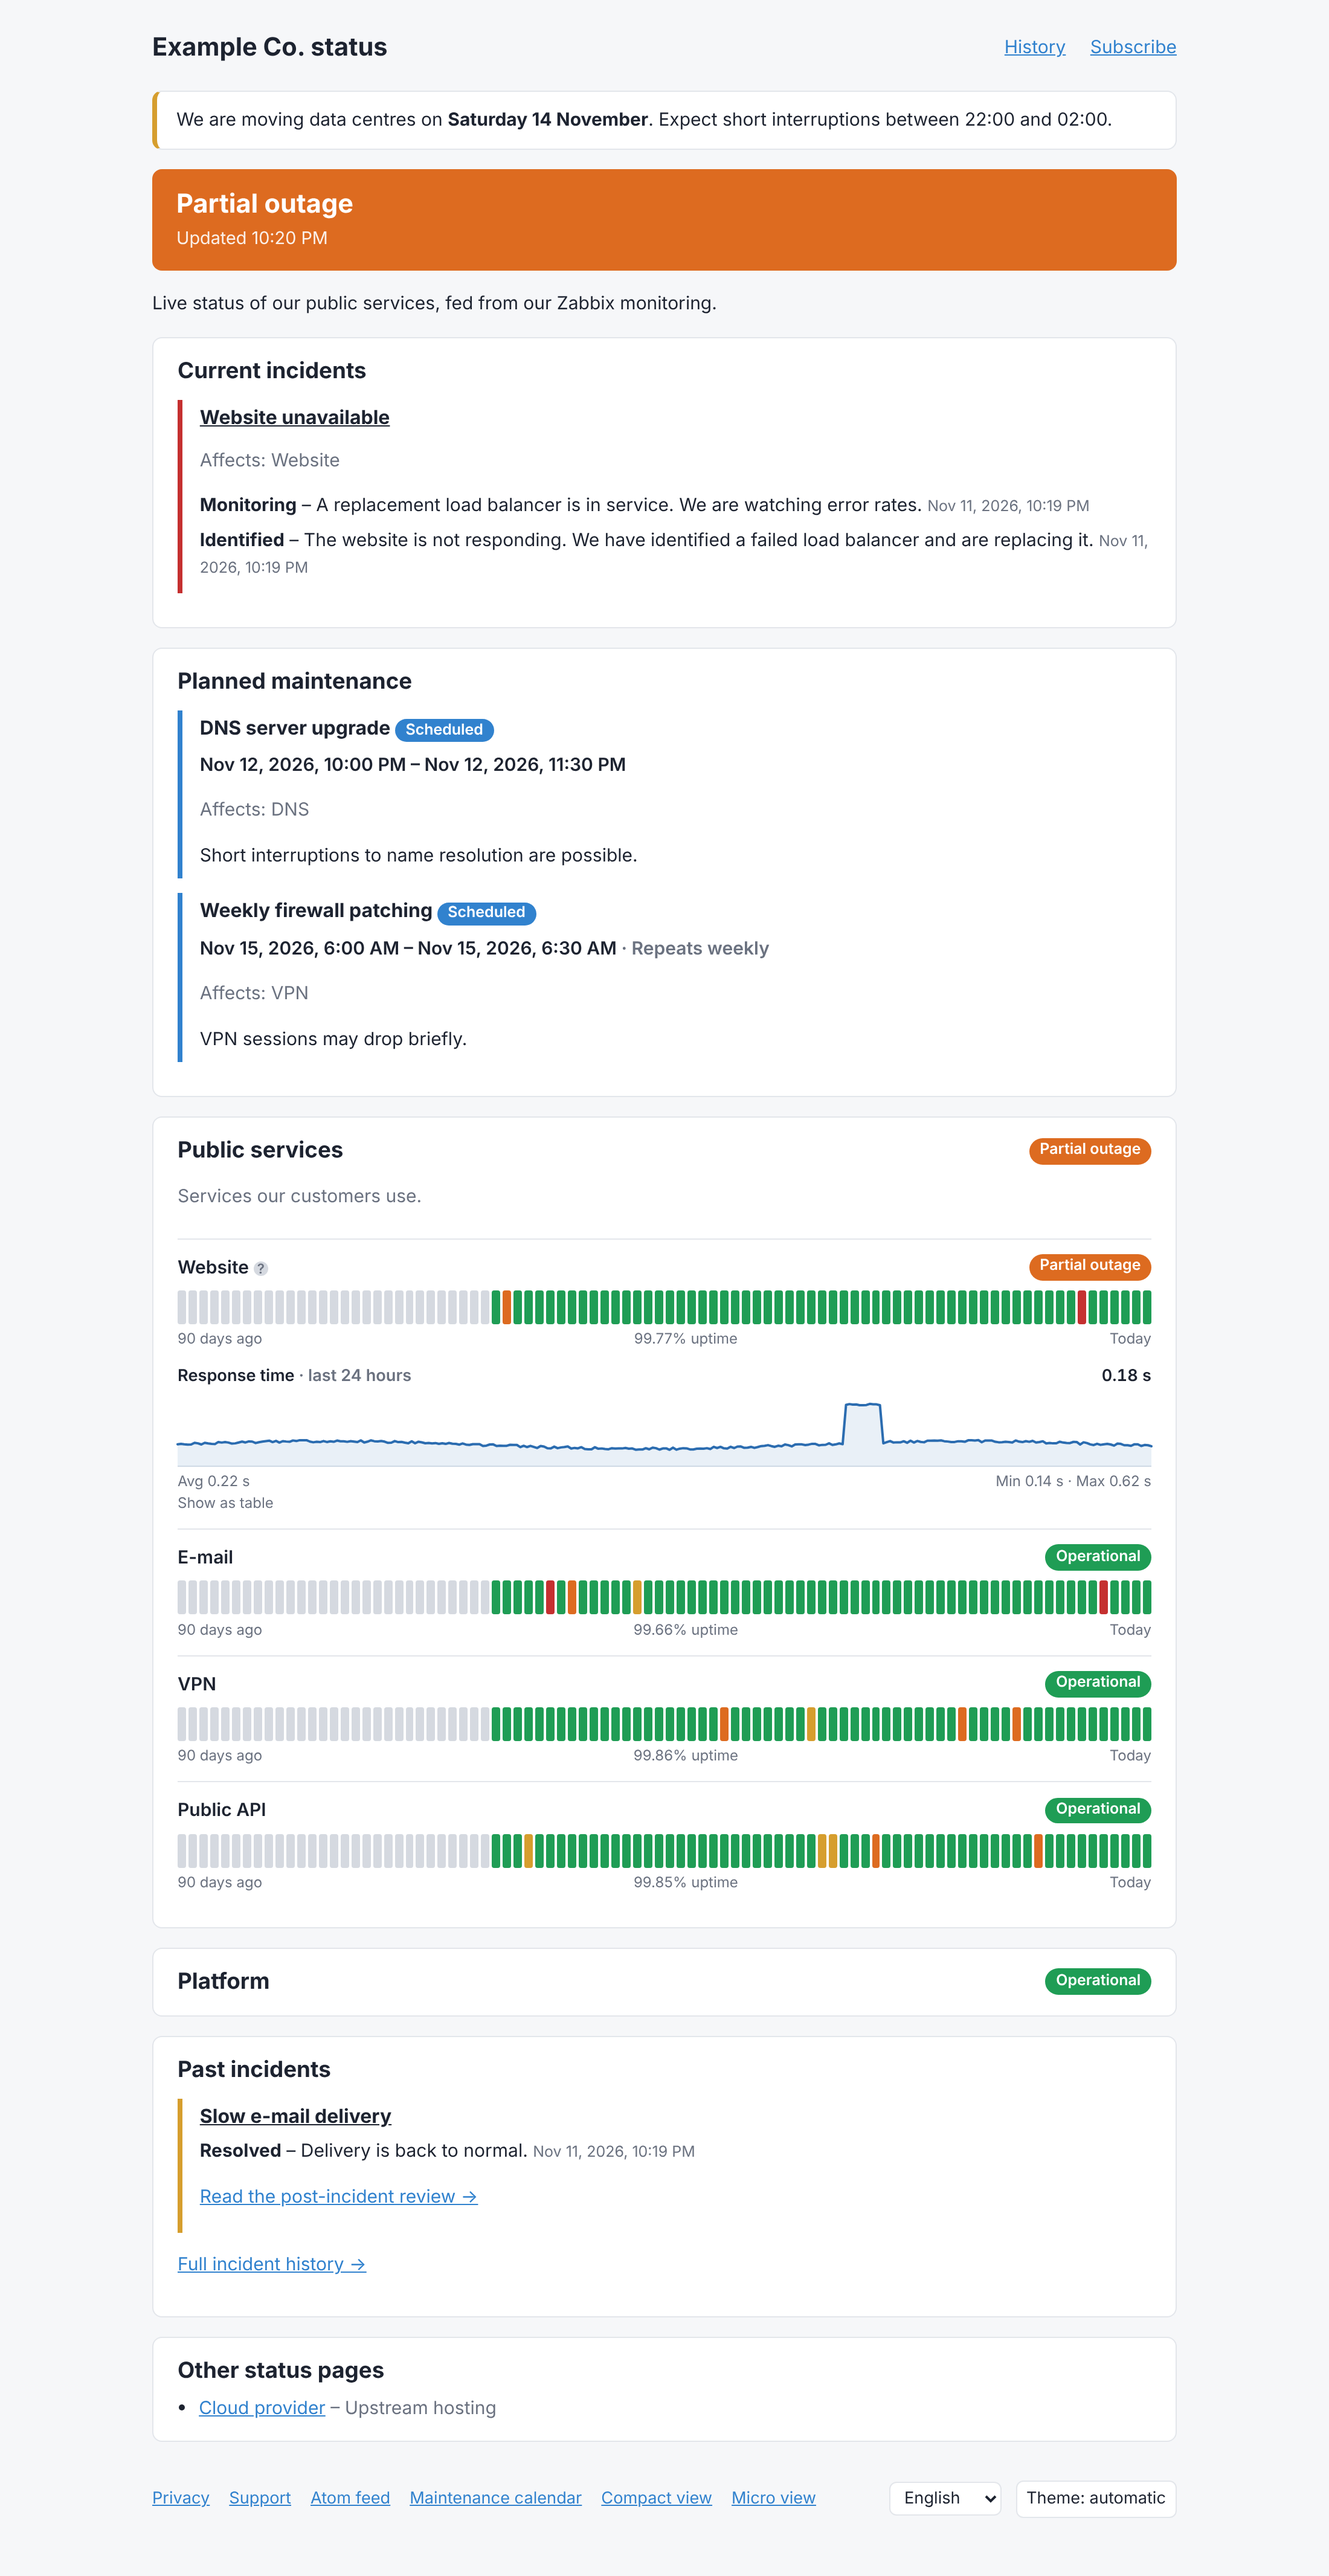
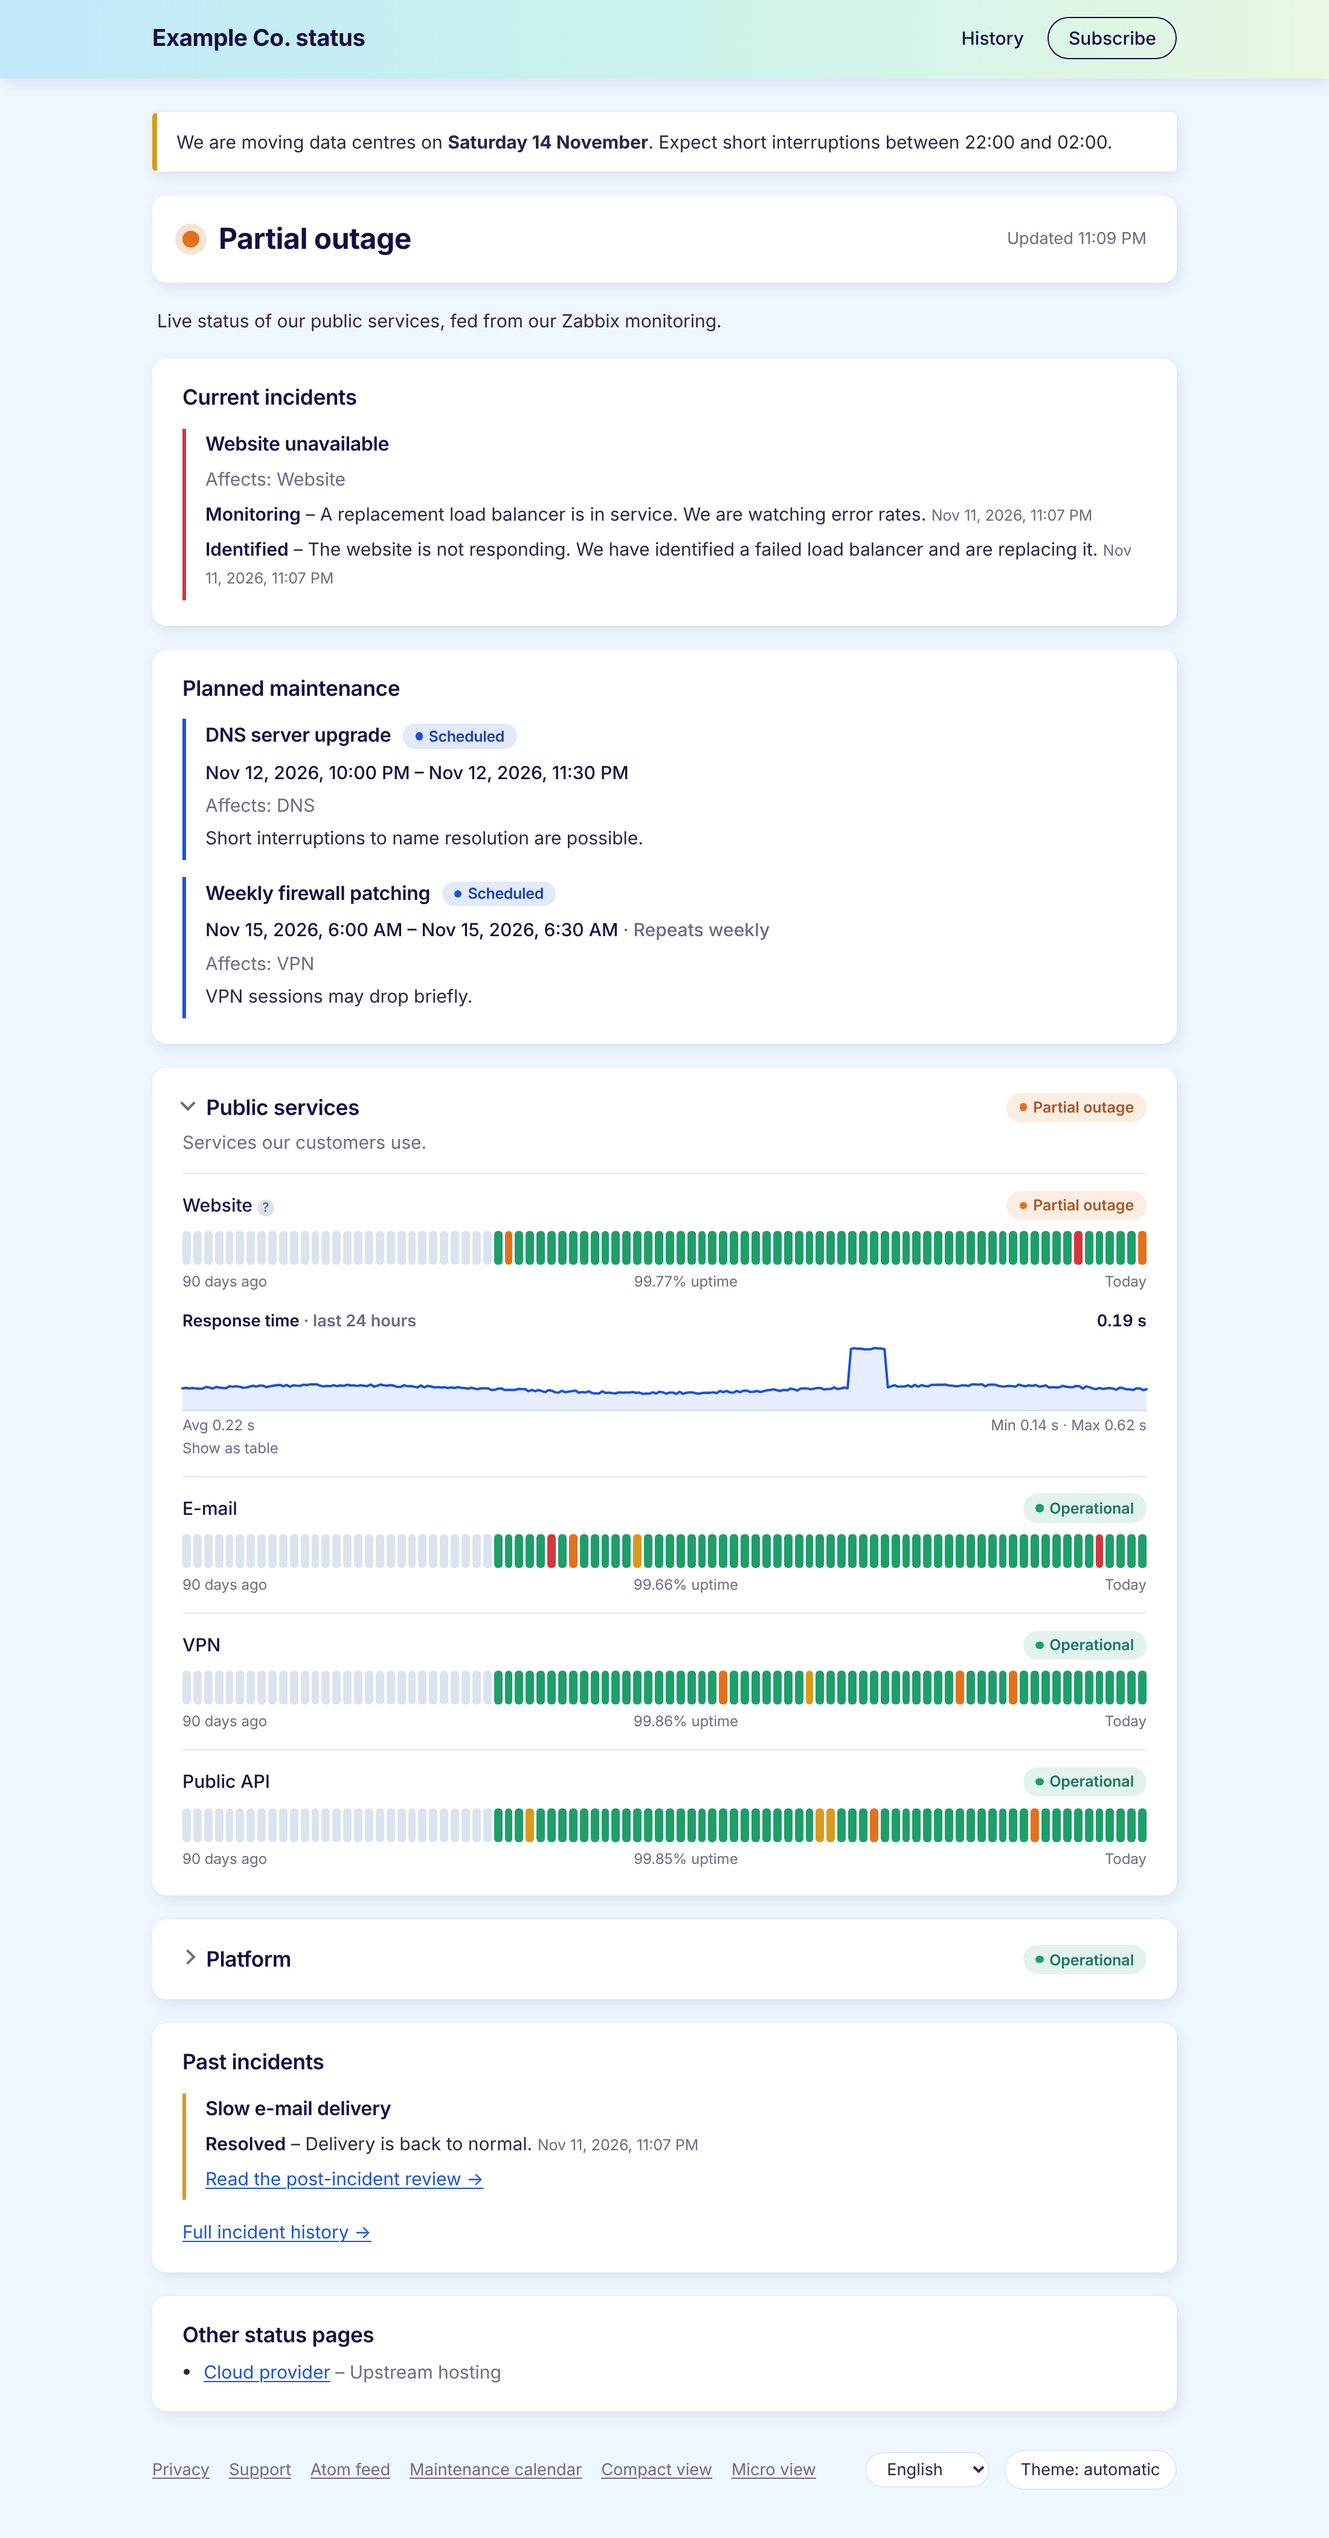
Regenerate README screenshots for the new look
Retaken from the demo data with the same staging as before. Also give
the admin panel a full palette from the brand blue so primary buttons
are solid blue with white text instead of a pale tint.

Claude-Session: https://claude.ai/code/session_01S6C8x7FjjqiTcNVjvFV6xp

diff --git a/app/Providers/Filament/AdminPanelProvider.php b/app/Providers/Filament/AdminPanelProvider.php
@@ -34,7 +34,7 @@ class AdminPanelProvider extends PanelProvider
             ->renderHook(PanelsRenderHook::AUTH_LOGIN_FORM_AFTER, fn () => view('filament.auth.google-button'))
             ->brandName(fn () => Setting::get('site_name').' admin')
             ->favicon(fn () => asset('favicon.svg'))
-            ->colors(['primary' => Color::hex('#1853de')])
+            ->colors(['primary' => Color::generateV3Palette('#1853de')])
             ->navigationGroups(['Communication', 'Components', 'Notifications', 'Settings'])
             ->discoverResources(in: app_path('Filament/Resources'), for: 'App\Filament\Resources')
             ->discoverPages(in: app_path('Filament/Pages'), for: 'App\Filament\Pages')
